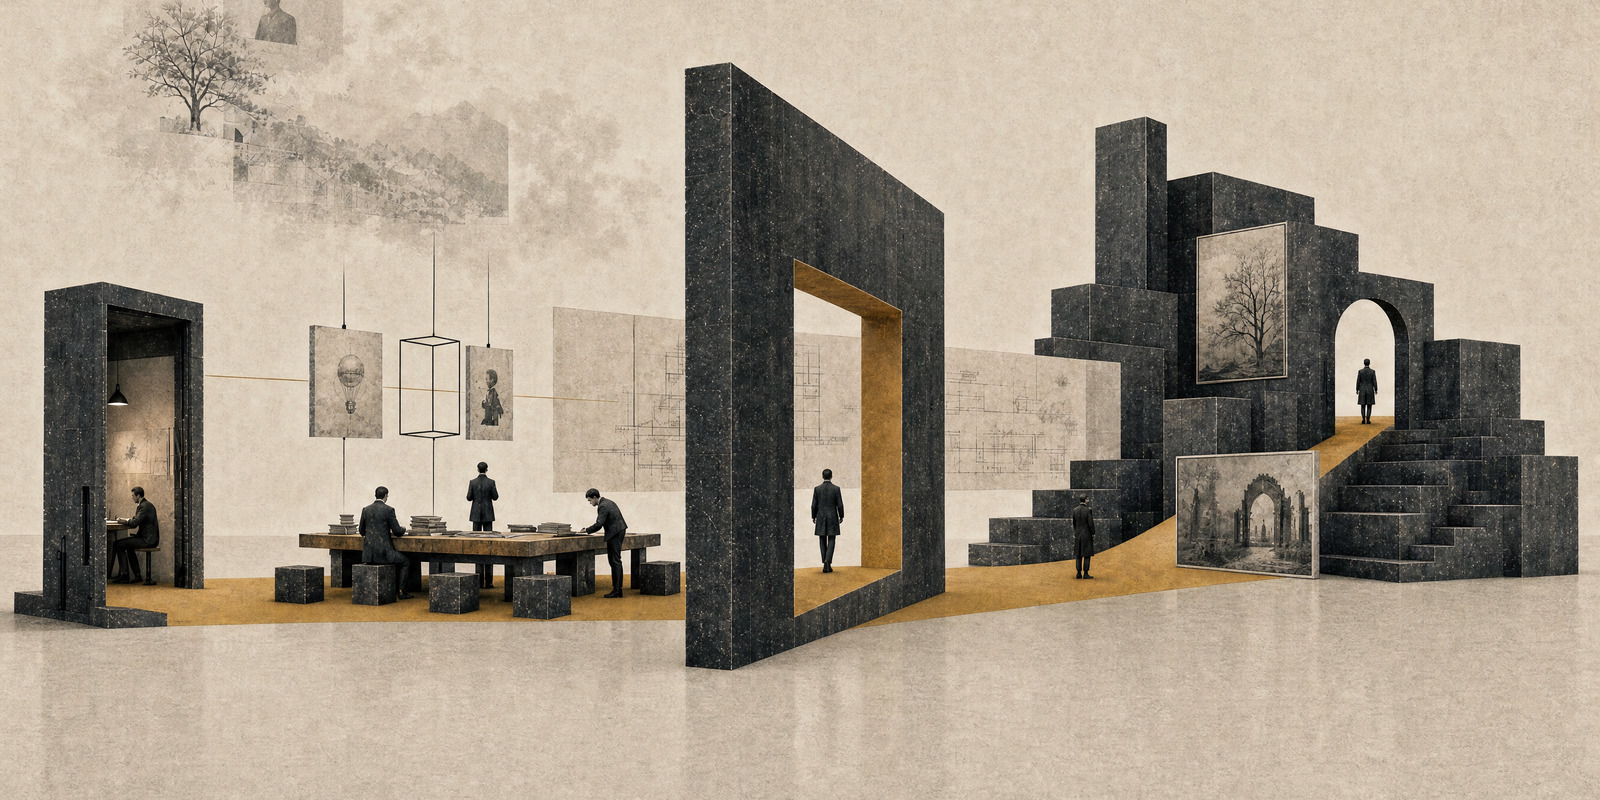
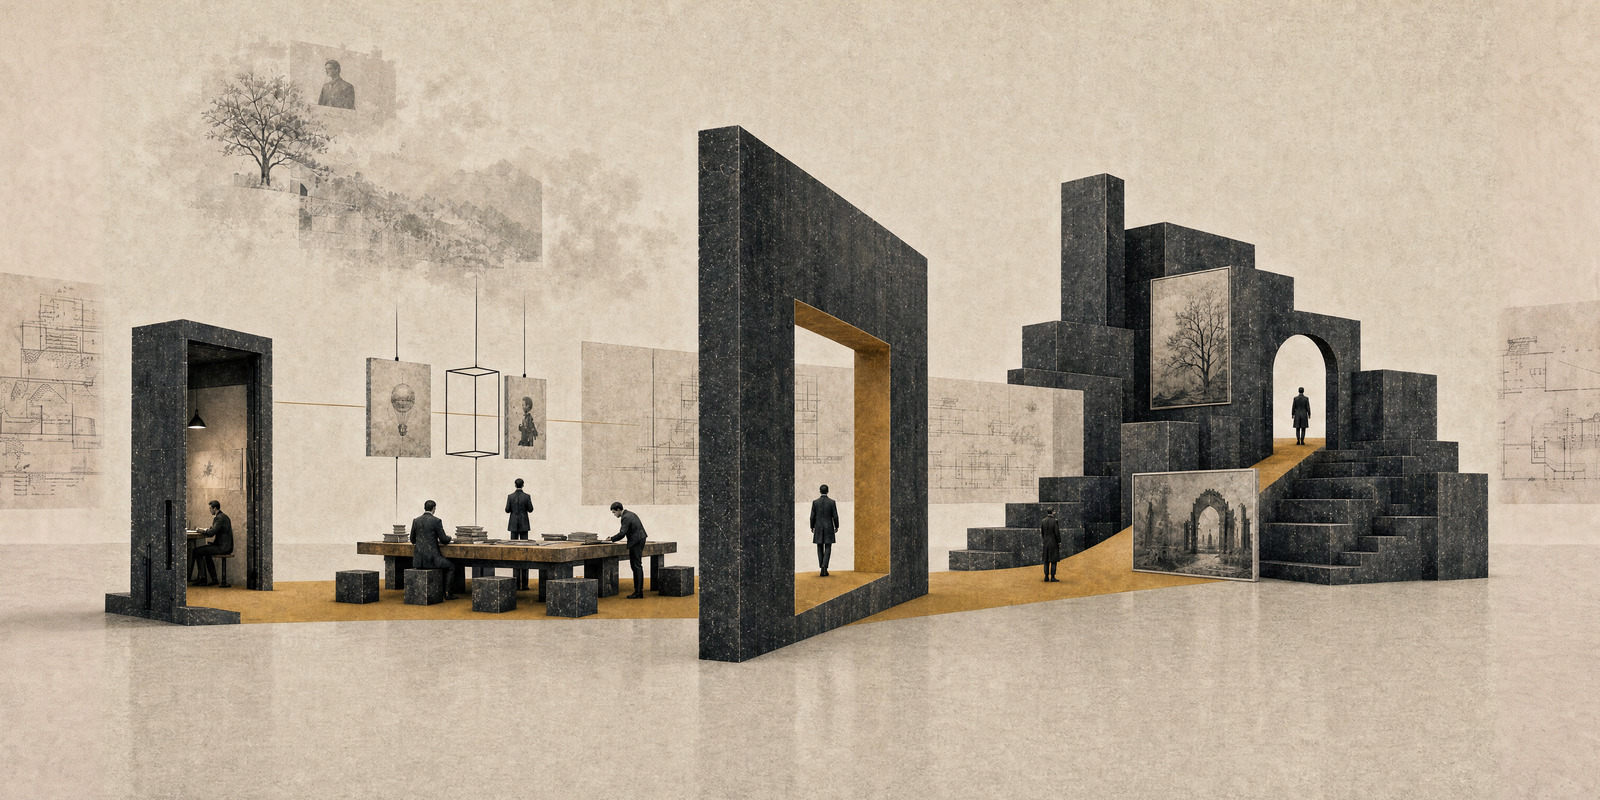
feat: 시리즈 4 파노라마에 여백을 보완한다

diff --git a/series/co-creation-culture/index.html b/series/co-creation-culture/index.html
@@ -12,14 +12,14 @@
 <meta property="og:title" content="코-크리에이션 문화">
 <meta property="og:description" content="2023년 두 차례의 발표를 3년 뒤에 다시 쓴 포스팅 세 개. 창작의 주체가 어디로 옮겨가는가.">
 <meta property="og:url" content="https://kiheonshin.github.io/blog-post-assets/series/co-creation-culture/">
-<meta property="og:image" content="https://kiheonshin.github.io/blog-post-assets/series/co-creation-culture/assets/series-banner.jpg">
-<meta property="og:image:secure_url" content="https://kiheonshin.github.io/blog-post-assets/series/co-creation-culture/assets/series-banner.jpg">
+<meta property="og:image" content="https://kiheonshin.github.io/blog-post-assets/series/co-creation-culture/assets/series-banner.jpg?v=20260731b">
+<meta property="og:image:secure_url" content="https://kiheonshin.github.io/blog-post-assets/series/co-creation-culture/assets/series-banner.jpg?v=20260731b">
 <meta property="og:image:type" content="image/jpeg">
 <meta property="og:image:width" content="1600">
 <meta property="og:image:height" content="800">
 <meta property="og:image:alt" content="세 포스팅의 키 비주얼이 하나로 이어진 파노라마">
 <meta name="twitter:card" content="summary_large_image">
-<meta name="twitter:image" content="https://kiheonshin.github.io/blog-post-assets/series/co-creation-culture/assets/series-banner.jpg">
+<meta name="twitter:image" content="https://kiheonshin.github.io/blog-post-assets/series/co-creation-culture/assets/series-banner.jpg?v=20260731b">
 <script async src="https://www.googletagmanager.com/gtag/js?id=G-SQYBGPJFJ4"></script>
 <script>
 window.dataLayer=window.dataLayer||[];
@@ -292,7 +292,7 @@ main.idx-wide{width:min(100%,calc(66rem + var(--gutter)*2))}
 .idx > .lead{margin:0 0 2rem;max-width:var(--measure)}
 </style>
 <link rel="stylesheet" href="../../assets/site.css?v=20260731g">
-<script type="module" src="../../assets/series-nav.js?v=20260731c"></script>
+<script type="module" src="../../assets/series-nav.js?v=20260731d"></script>
 </head>
 <body>
 <a class="skip" href="#main">본문으로 건너뛰기</a>

diff --git a/index.html b/index.html
@@ -15,7 +15,7 @@
 <meta property="og:image" content="https://kiheonshin.github.io/blog-post-assets/series/aigc-creative-paradigm/assets/series-banner.jpg">
 <meta name="twitter:card" content="summary_large_image">
 <link rel="stylesheet" href="assets/site.css?v=20260731g">
-<script type="module" src="assets/series-nav.js?v=20260731c"></script>
+<script type="module" src="assets/series-nav.js?v=20260731d"></script>
 <script async src="https://www.googletagmanager.com/gtag/js?id=G-SQYBGPJFJ4"></script>
 <script>
 window.dataLayer=window.dataLayer||[];

diff --git a/assets/content-manifest.js b/assets/content-manifest.js
@@ -211,7 +211,7 @@ export const contentLibrary = {
       topics: ["공동 창작", "현실과 가상", "기록과 서사"],
       keywords: ["코-크리에이션", "온체인 아이덴티티", "디지털 소유", "스토리텔링"],
       href: "series/co-creation-culture/",
-      cover: "series/co-creation-culture/assets/series-banner.jpg",
+      cover: "series/co-creation-culture/assets/series-banner.jpg?v=20260731b",
       coverAlt: "세 포스팅의 키 비주얼이 하나로 이어진 파노라마",
       posts: [
         {

diff --git a/assets/series-nav.js b/assets/series-nav.js
@@ -2,7 +2,7 @@
    HTML만 새로 받고 모듈은 캐시에서 꺼내 쓰는 일이 생긴다. 그러면 새 시리즈가
    목록에서 빠지고 "시리즈 정보를 불러오지 못했습니다"가 뜬다(2026-07-25 실증).
    페이지의 series-nav.js?v= 값과 반드시 같이 올릴 것. */
-import { contentLibrary, getSeries } from "./content-manifest.js?v=20260731b";
+import { contentLibrary, getSeries } from "./content-manifest.js?v=20260731c";
 
 const siteRoot = new URL("../", import.meta.url);
 

diff --git a/series/aigc-creative-paradigm/posts/01-skill-and-effort/index.html b/series/aigc-creative-paradigm/posts/01-skill-and-effort/index.html
@@ -242,7 +242,7 @@ figcaption{margin-block-start:.75rem;color:var(--ink-muted);
 @media(prefers-reduced-motion:reduce){*{transition:none!important}}
 </style>
 <link rel="stylesheet" href="../../../../assets/site.css?v=20260731g">
-<script type="module" src="../../../../assets/series-nav.js?v=20260731c"></script>
+<script type="module" src="../../../../assets/series-nav.js?v=20260731d"></script>
 </head>
 <body>
 <a class="skip" href="#main">본문으로 건너뛰기</a>

diff --git a/series/aigc-creative-paradigm/posts/02-workflow-design/index.html b/series/aigc-creative-paradigm/posts/02-workflow-design/index.html
@@ -242,7 +242,7 @@ figcaption{margin-block-start:.75rem;color:var(--ink-muted);
 @media(prefers-reduced-motion:reduce){*{transition:none!important}}
 </style>
 <link rel="stylesheet" href="../../../../assets/site.css?v=20260731g">
-<script type="module" src="../../../../assets/series-nav.js?v=20260731c"></script>
+<script type="module" src="../../../../assets/series-nav.js?v=20260731d"></script>
 </head>
 <body>
 <a class="skip" href="#main">본문으로 건너뛰기</a>

diff --git a/series/aigc-creative-paradigm/posts/03-reality-virtual-boundary/index.html b/series/aigc-creative-paradigm/posts/03-reality-virtual-boundary/index.html
@@ -242,7 +242,7 @@ figcaption{margin-block-start:.75rem;color:var(--ink-muted);
 @media(prefers-reduced-motion:reduce){*{transition:none!important}}
 </style>
 <link rel="stylesheet" href="../../../../assets/site.css?v=20260731g">
-<script type="module" src="../../../../assets/series-nav.js?v=20260731c"></script>
+<script type="module" src="../../../../assets/series-nav.js?v=20260731d"></script>
 </head>
 <body>
 <a class="skip" href="#main">본문으로 건너뛰기</a>

diff --git a/series/autonomous-worlds/posts/01-engine-city-to-autonomous-world/index.html b/series/autonomous-worlds/posts/01-engine-city-to-autonomous-world/index.html
@@ -242,7 +242,7 @@ figcaption{margin-block-start:.75rem;color:var(--ink-muted);
 @media(prefers-reduced-motion:reduce){*{transition:none!important}}
 </style>
 <link rel="stylesheet" href="../../../../assets/site.css?v=20260731g">
-<script type="module" src="../../../../assets/series-nav.js?v=20260731c"></script>
+<script type="module" src="../../../../assets/series-nav.js?v=20260731d"></script>
 </head>
 <body>
 <a class="skip" href="#main">본문으로 건너뛰기</a>

diff --git a/series/autonomous-worlds/posts/02-more-than-a-mirror/index.html b/series/autonomous-worlds/posts/02-more-than-a-mirror/index.html
@@ -242,7 +242,7 @@ figcaption{margin-block-start:.75rem;color:var(--ink-muted);
 @media(prefers-reduced-motion:reduce){*{transition:none!important}}
 </style>
 <link rel="stylesheet" href="../../../../assets/site.css?v=20260731g">
-<script type="module" src="../../../../assets/series-nav.js?v=20260731c"></script>
+<script type="module" src="../../../../assets/series-nav.js?v=20260731d"></script>
 </head>
 <body>
 <a class="skip" href="#main">본문으로 건너뛰기</a>

diff --git a/series/autonomous-worlds/posts/03-what-we-want-to-create/index.html b/series/autonomous-worlds/posts/03-what-we-want-to-create/index.html
@@ -242,7 +242,7 @@ figcaption{margin-block-start:.75rem;color:var(--ink-muted);
 @media(prefers-reduced-motion:reduce){*{transition:none!important}}
 </style>
 <link rel="stylesheet" href="../../../../assets/site.css?v=20260731g">
-<script type="module" src="../../../../assets/series-nav.js?v=20260731c"></script>
+<script type="module" src="../../../../assets/series-nav.js?v=20260731d"></script>
 </head>
 <body>
 <a class="skip" href="#main">본문으로 건너뛰기</a>

diff --git a/series/co-creation-culture/posts/01-whose-creativity/index.html b/series/co-creation-culture/posts/01-whose-creativity/index.html
@@ -242,7 +242,7 @@ figcaption{margin-block-start:.75rem;color:var(--ink-muted);
 @media(prefers-reduced-motion:reduce){*{transition:none!important}}
 </style>
 <link rel="stylesheet" href="../../../../assets/site.css?v=20260731g">
-<script type="module" src="../../../../assets/series-nav.js?v=20260731c"></script>
+<script type="module" src="../../../../assets/series-nav.js?v=20260731d"></script>
 </head>
 <body>
 <a class="skip" href="#main">본문으로 건너뛰기</a>

diff --git a/series/co-creation-culture/posts/02-at-the-boundary/index.html b/series/co-creation-culture/posts/02-at-the-boundary/index.html
@@ -242,7 +242,7 @@ figcaption{margin-block-start:.75rem;color:var(--ink-muted);
 @media(prefers-reduced-motion:reduce){*{transition:none!important}}
 </style>
 <link rel="stylesheet" href="../../../../assets/site.css?v=20260731g">
-<script type="module" src="../../../../assets/series-nav.js?v=20260731c"></script>
+<script type="module" src="../../../../assets/series-nav.js?v=20260731d"></script>
 </head>
 <body>
 <a class="skip" href="#main">본문으로 건너뛰기</a>
